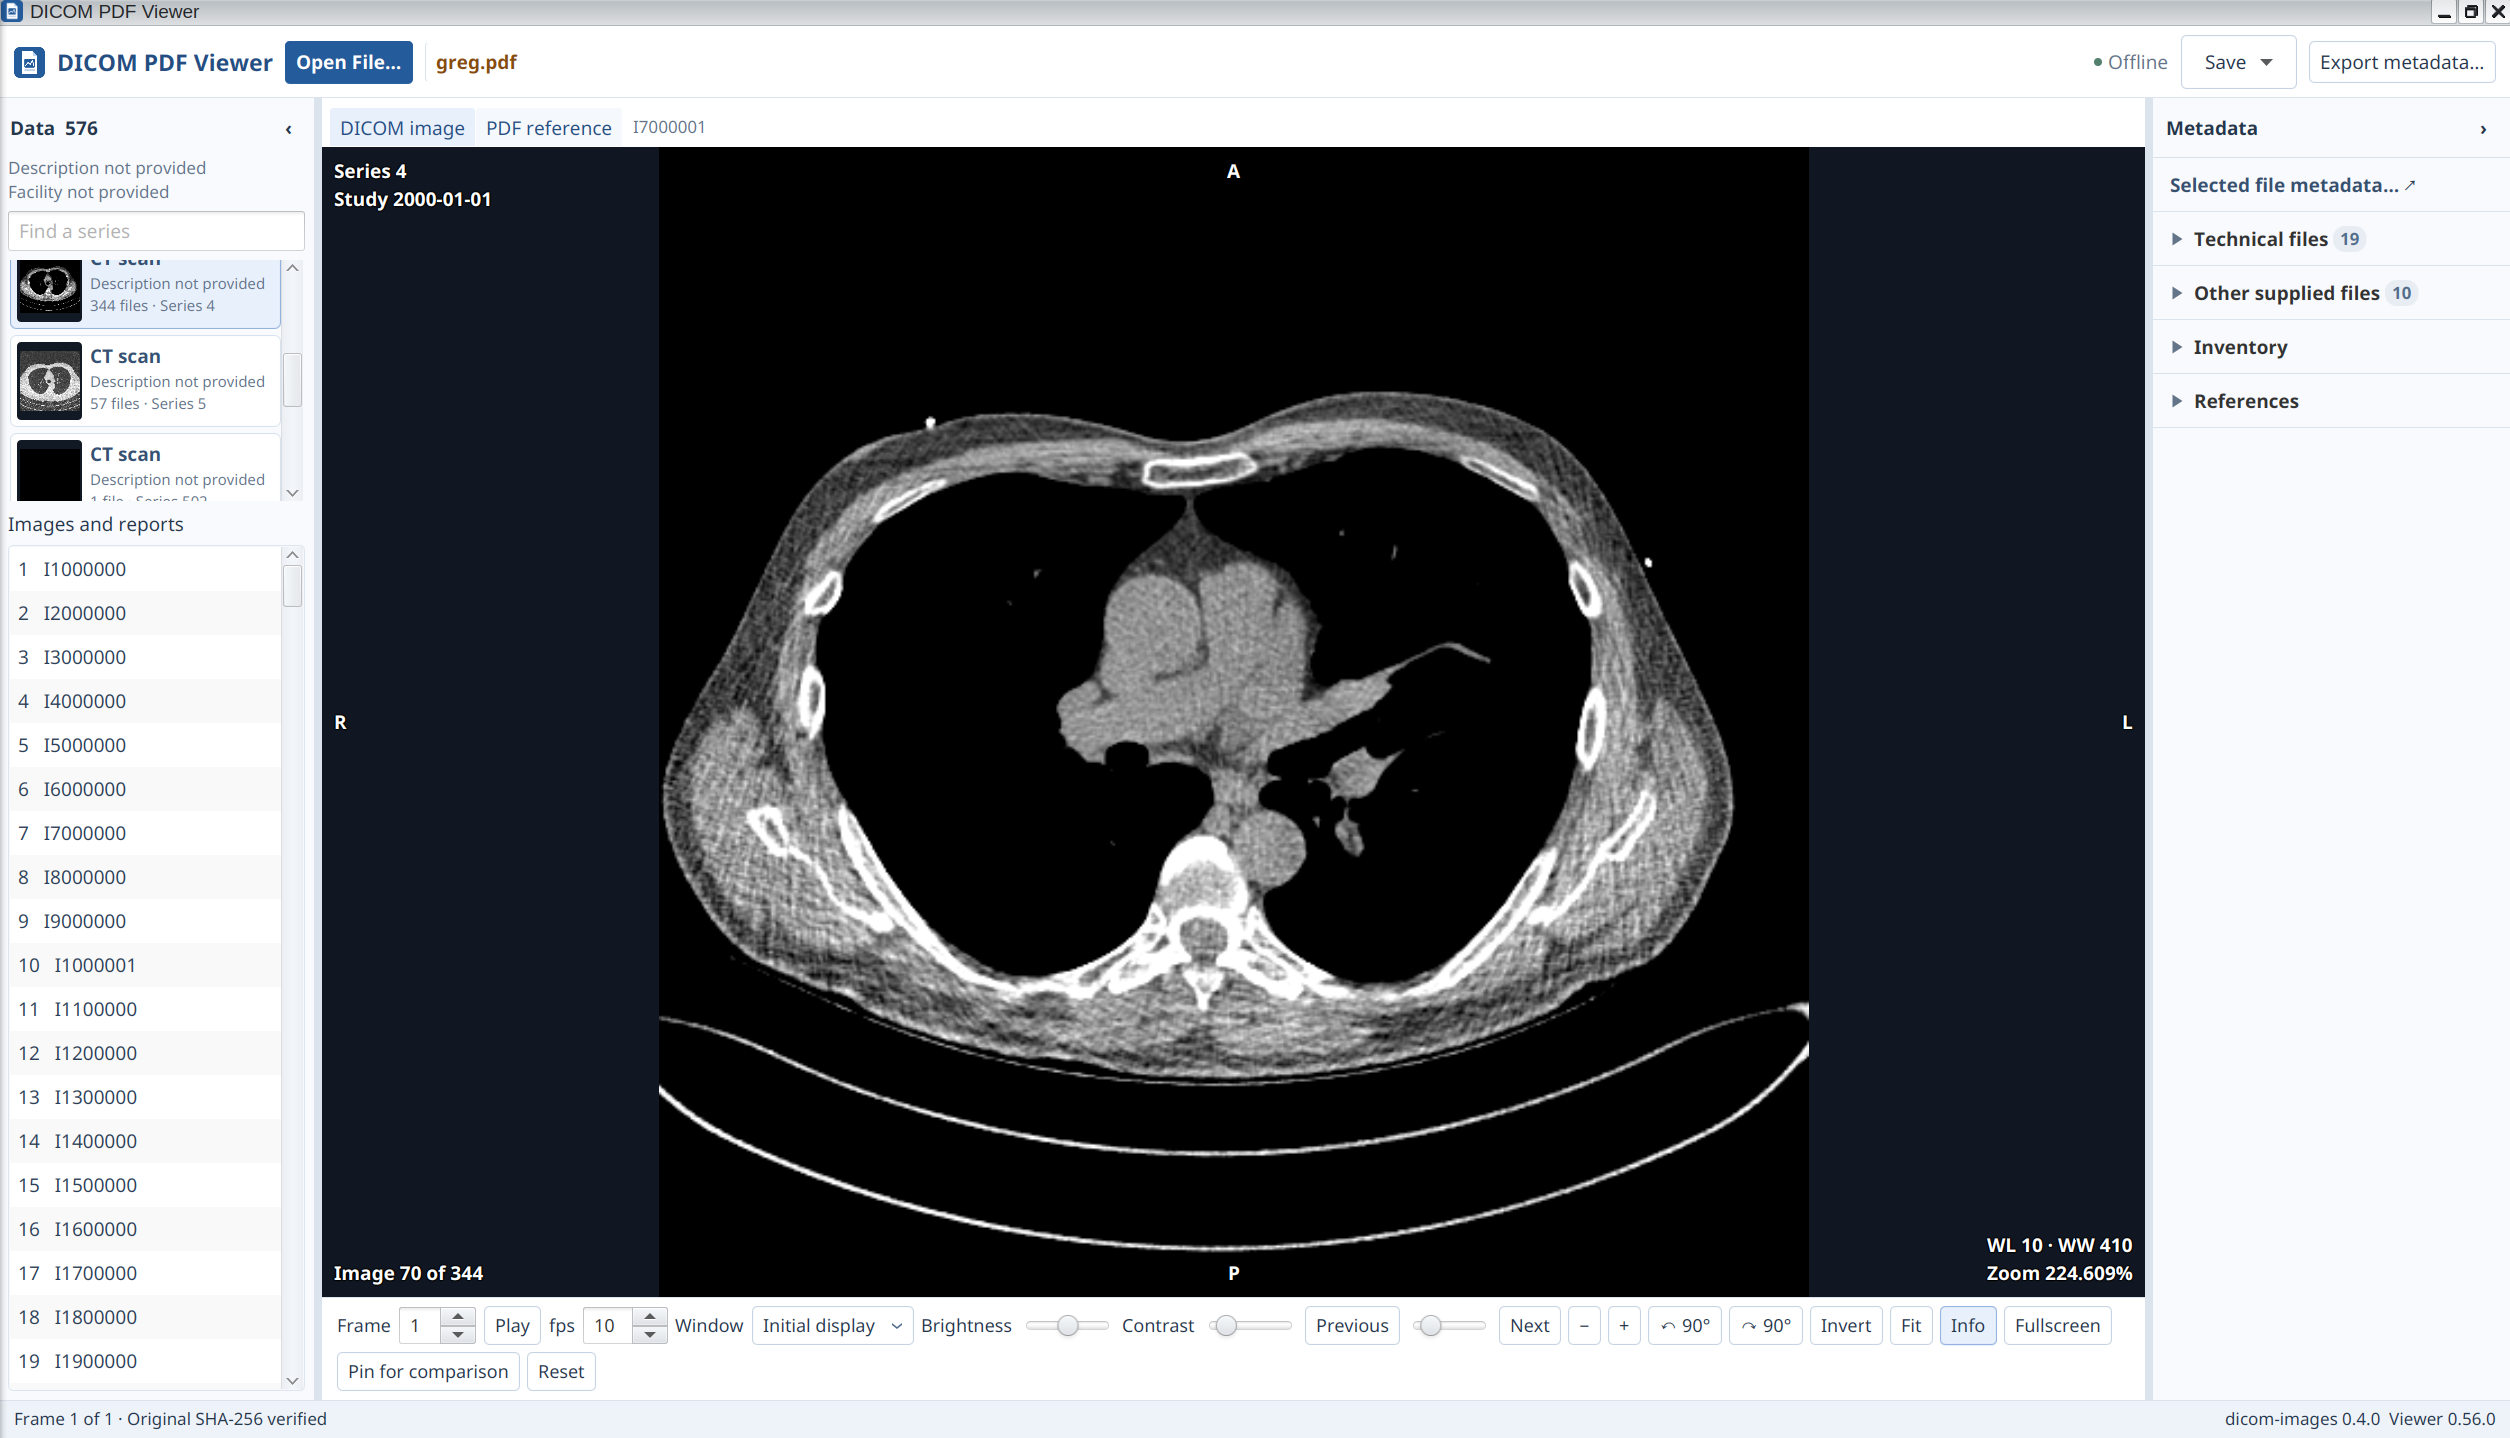
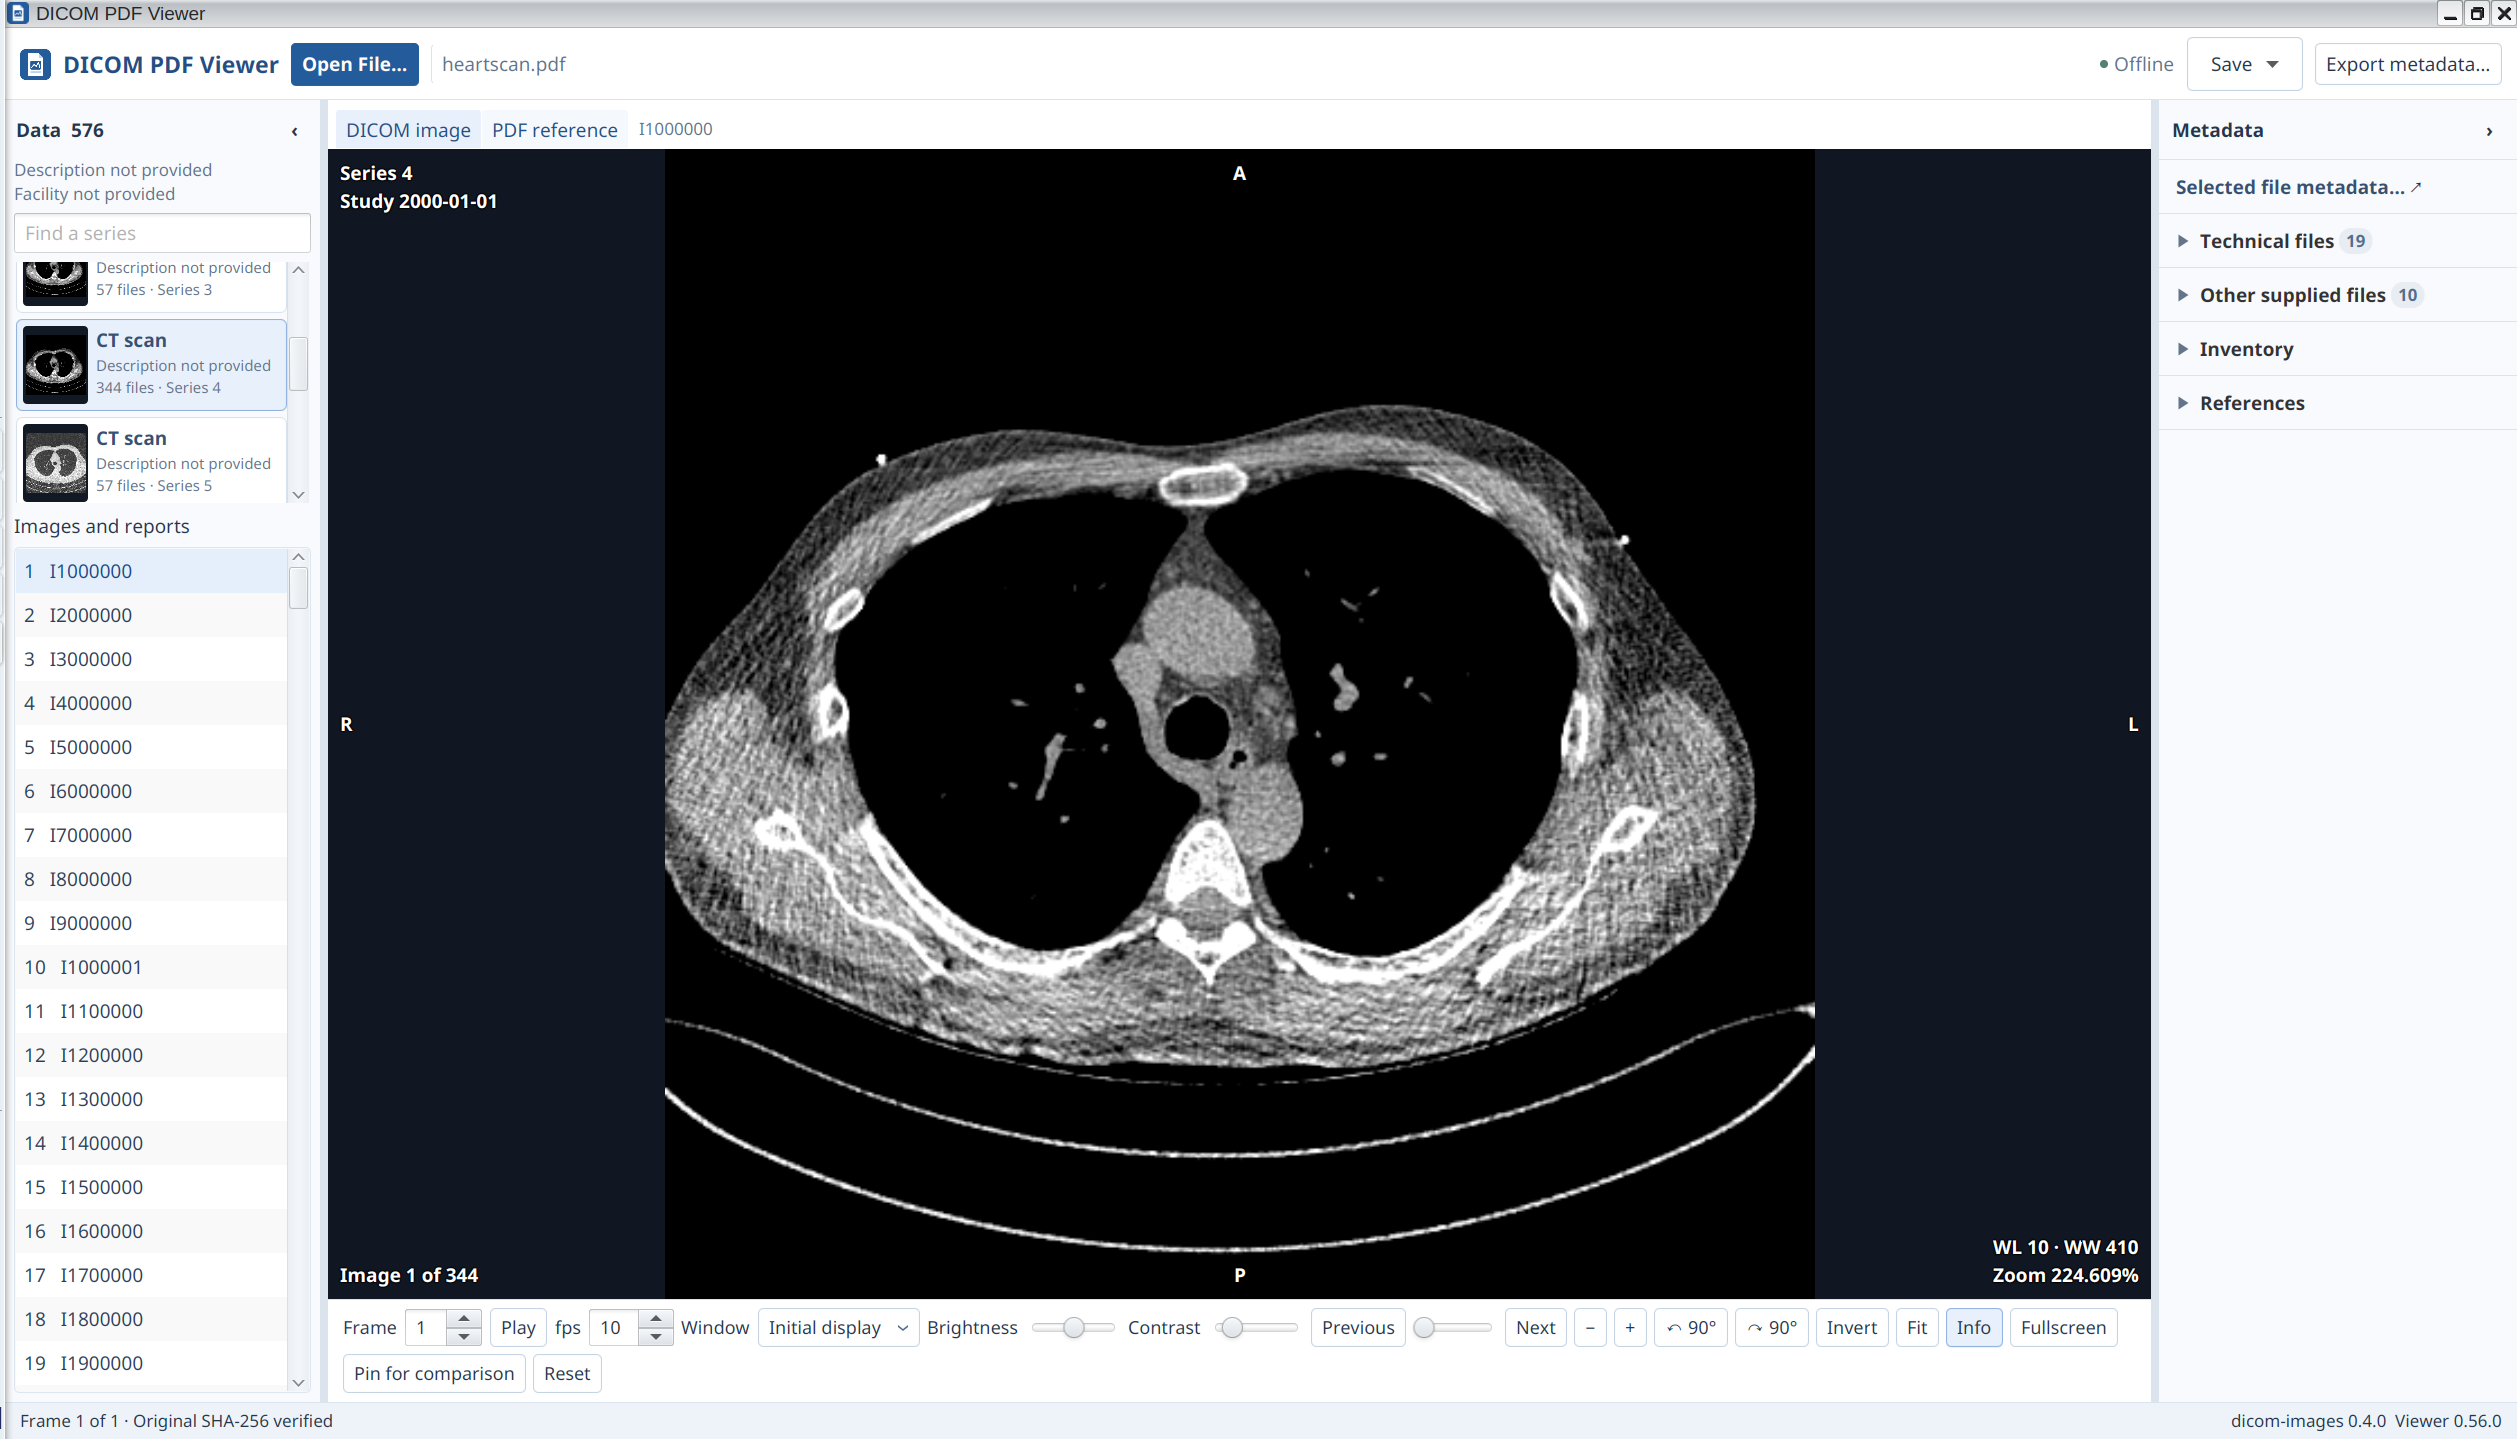
Publish the anonymized viewer screenshot and simplify downloads

diff --git a/docs/index.md b/docs/index.md
@@ -15,11 +15,11 @@ DICOM PDF packages original DICOM files and metadata in a self-contained PDF/A-4
 {% assign creator = release.assets | where: 'name', creator_name | first %}
 {% assign viewer = release.assets | where: 'name', viewer_name | first %}
 
-[Download the creator]({{ creator.browser_download_url | default: release_page }}) · [Download the desktop viewer]({{ viewer.browser_download_url | default: release_page }}) · [Download example archives (ZIP)]({{ release_page }}/download/dicom-pdf-examples.zip) · [Browse example archives](https://github.com/thinkbox-digital/dicom-pdf/tree/main/examples)
+[Download the creator]({{ creator.browser_download_url | default: release_page }}) · [Download the desktop viewer]({{ viewer.browser_download_url | default: release_page }}) · [Download example archives (ZIP)]({{ release_page }}/download/dicom-pdf-examples.zip)
 
-![DICOM PDF Viewer showing an axial chest CT image from greg.pdf with the left series pane open](desktop-viewer.png?v=0.56.0&rev=a8690b83)
+![DICOM PDF Viewer showing an axial chest CT image with the left series pane open](desktop-viewer.png?v=0.56.0&rev=e8e17efe)
 
-[View the full-size screenshot with overlays](desktop-viewer.png?v=0.56.0&rev=a8690b83).
+[View the full-size screenshot with overlays](desktop-viewer.png?v=0.56.0&rev=e8e17efe).
 
 ## Open, create, or recover an archive
 

diff --git a/README.md b/README.md
@@ -52,9 +52,9 @@ extension are built together and show their shared version in the status bar.
 The viewer can display the first image while
 archive checks run in the background. New archives embed a copy of the browser viewer.
 
-![DICOM PDF Viewer showing an axial chest CT image from greg.pdf with the left series pane open](docs/desktop-viewer.png?v=0.56.0&rev=a8690b83)
+![DICOM PDF Viewer showing an axial chest CT image with the left series pane open](docs/desktop-viewer.png?v=0.56.0&rev=e8e17efe)
 
-*greg.pdf open in desktop viewer `0.56.0`.*
+*heartscan.pdf open in desktop viewer `0.56.0`.*
 
 Click the PDF filename to open the archive security report. It checks supported
 PDF signatures, RFC 3161 timestamps, C2PA credentials and DICOM PAdES B-LTA
